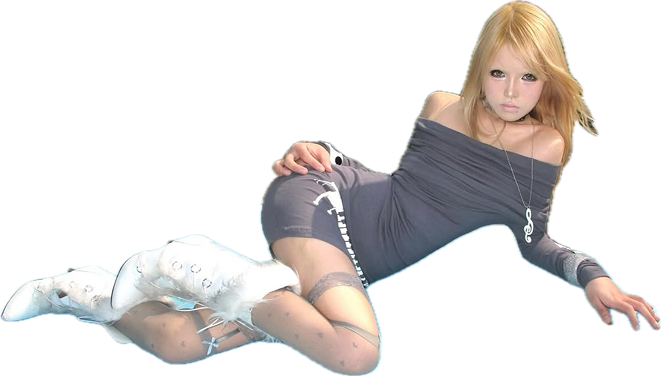
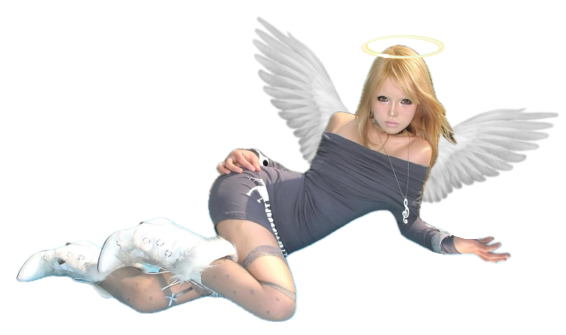
дизайн главной страницы

diff --git a/src/components/pages/main/styles.module.scss b/src/components/pages/main/styles.module.scss
@@ -2,17 +2,17 @@
     width: 100%;
 	&__button {
 		font-family: var(--decore-font);
-		font-size: clamp(20px, 3.33vw, 50px);
-        padding: 20px;
-        top: 30%;
+		font-size: clamp(20px, 2.00vw, 30px);
+        top: 40%;
+		left: 50%;
+		z-index: 20;
+		background-color: #fff1bb;
+		box-shadow: 0 0 30px 30px #fff1bb;
+		border-radius: 30px;
 
 	}
-	&__decore {
-		width: clamp(50px, 10vw, 150px);
-        left: 50%;
-        top: -10%;
-	}
 	&__image {
-		width: clamp(200px, 40vw, 600px);
+		width: clamp(467px, 46.67vw, 700px);
+		left: -30%;
 	}
 }

diff --git a/src/components/layout/header/styles.module.scss b/src/components/layout/header/styles.module.scss
@@ -1,8 +1,9 @@
 .header {
 	position: sticky;
 	top: 0;
-	padding: clamp(16px, 1.6vw, 24px) clamp(20px, 2vw, 30px);
+	padding: clamp(7px, 0.67vw, 10px) clamp(20px, 2vw, 30px);
 	background-color: var(--bg-color);
+	box-shadow: 0px 0px 30px 30px var(--bg-color);
 	&__nav {
 		display: block;
 		// transition: 1s;

diff --git a/src/components/pages/main/main.tsx b/src/components/pages/main/main.tsx
@@ -9,11 +9,6 @@ export const Main = () => {
 					to CATalog...
 				</Link>
 				<img
-					className={`${styles.main__decore} relative`}
-					src="src/assets/arrow.svg"
-					alt=""
-				/>
-				<img
 					className={`${styles.main__image} relative`}
 					src="src/assets/model.png"
 					alt=""

diff --git a/src/components/layout/app-column/styles.module.scss b/src/components/layout/app-column/styles.module.scss
@@ -6,5 +6,9 @@
 	min-height: 100%;
 	max-width: 1200px;
 	background-color: var(--bg-color);
+	background-position: center;
+	background-size: cover;
+	background-repeat: no-repeat;
+	background-image: url("src/assets/bgi5.jpg");
 	box-shadow: 0px 0px 30px 10px #828282;
 }

diff --git a/src/components/layout/footer/styles.module.scss b/src/components/layout/footer/styles.module.scss
@@ -1,5 +1,7 @@
 .footer{
-	padding: clamp(16px, 1.6vw, 24px) clamp(20px, 2vw, 30px);
+	padding: clamp(7px, 0.67vw, 10px) clamp(20px, 2vw, 30px);
+	background-color: var(--bg-color);
+	box-shadow: 0px 0px 30px 30px var(--bg-color);
 
     &__social{
         gap: 10px;
